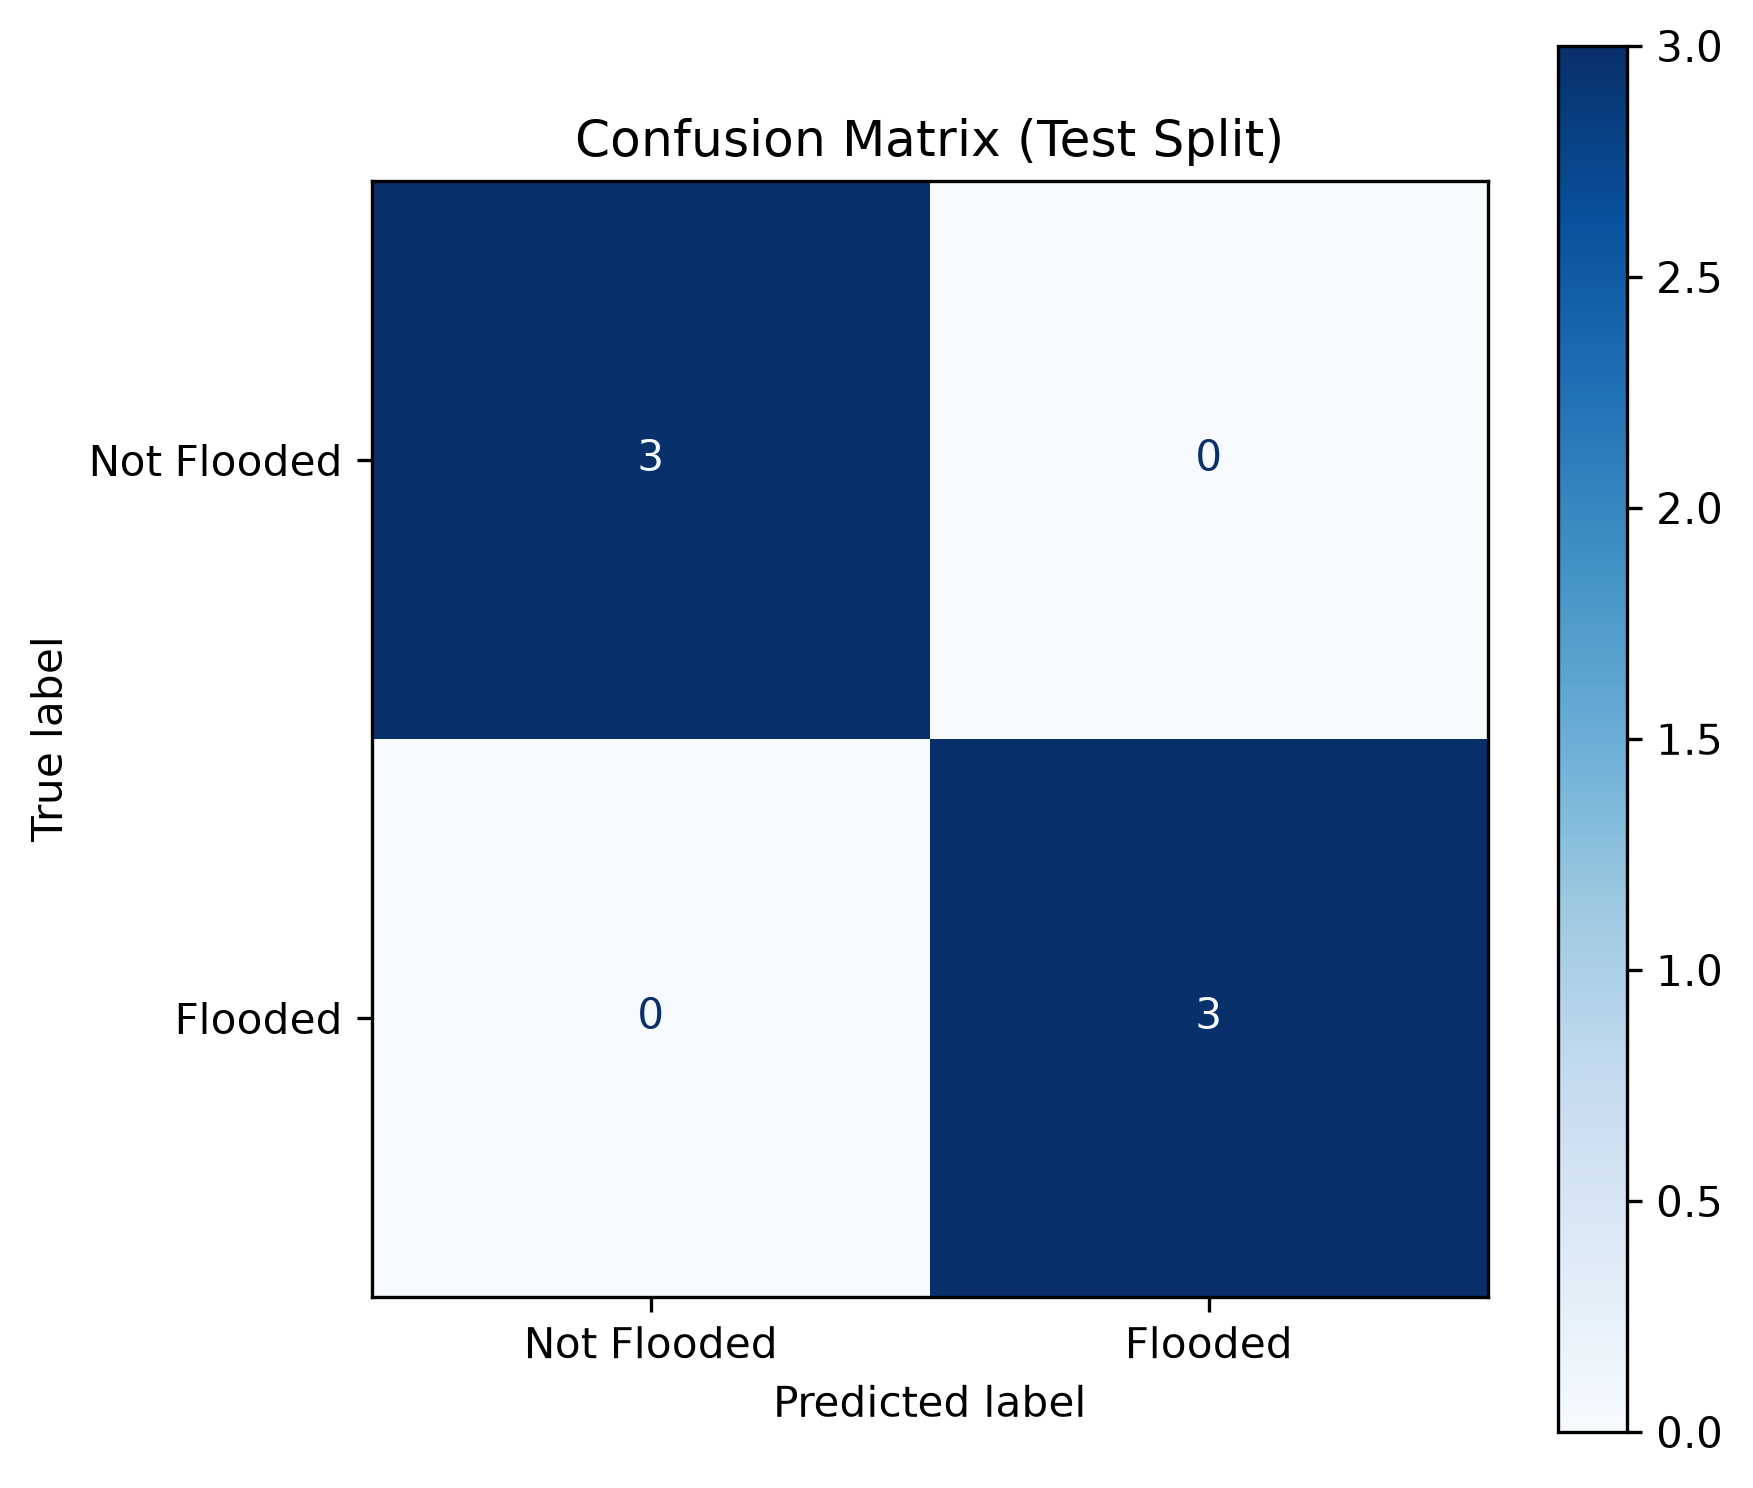
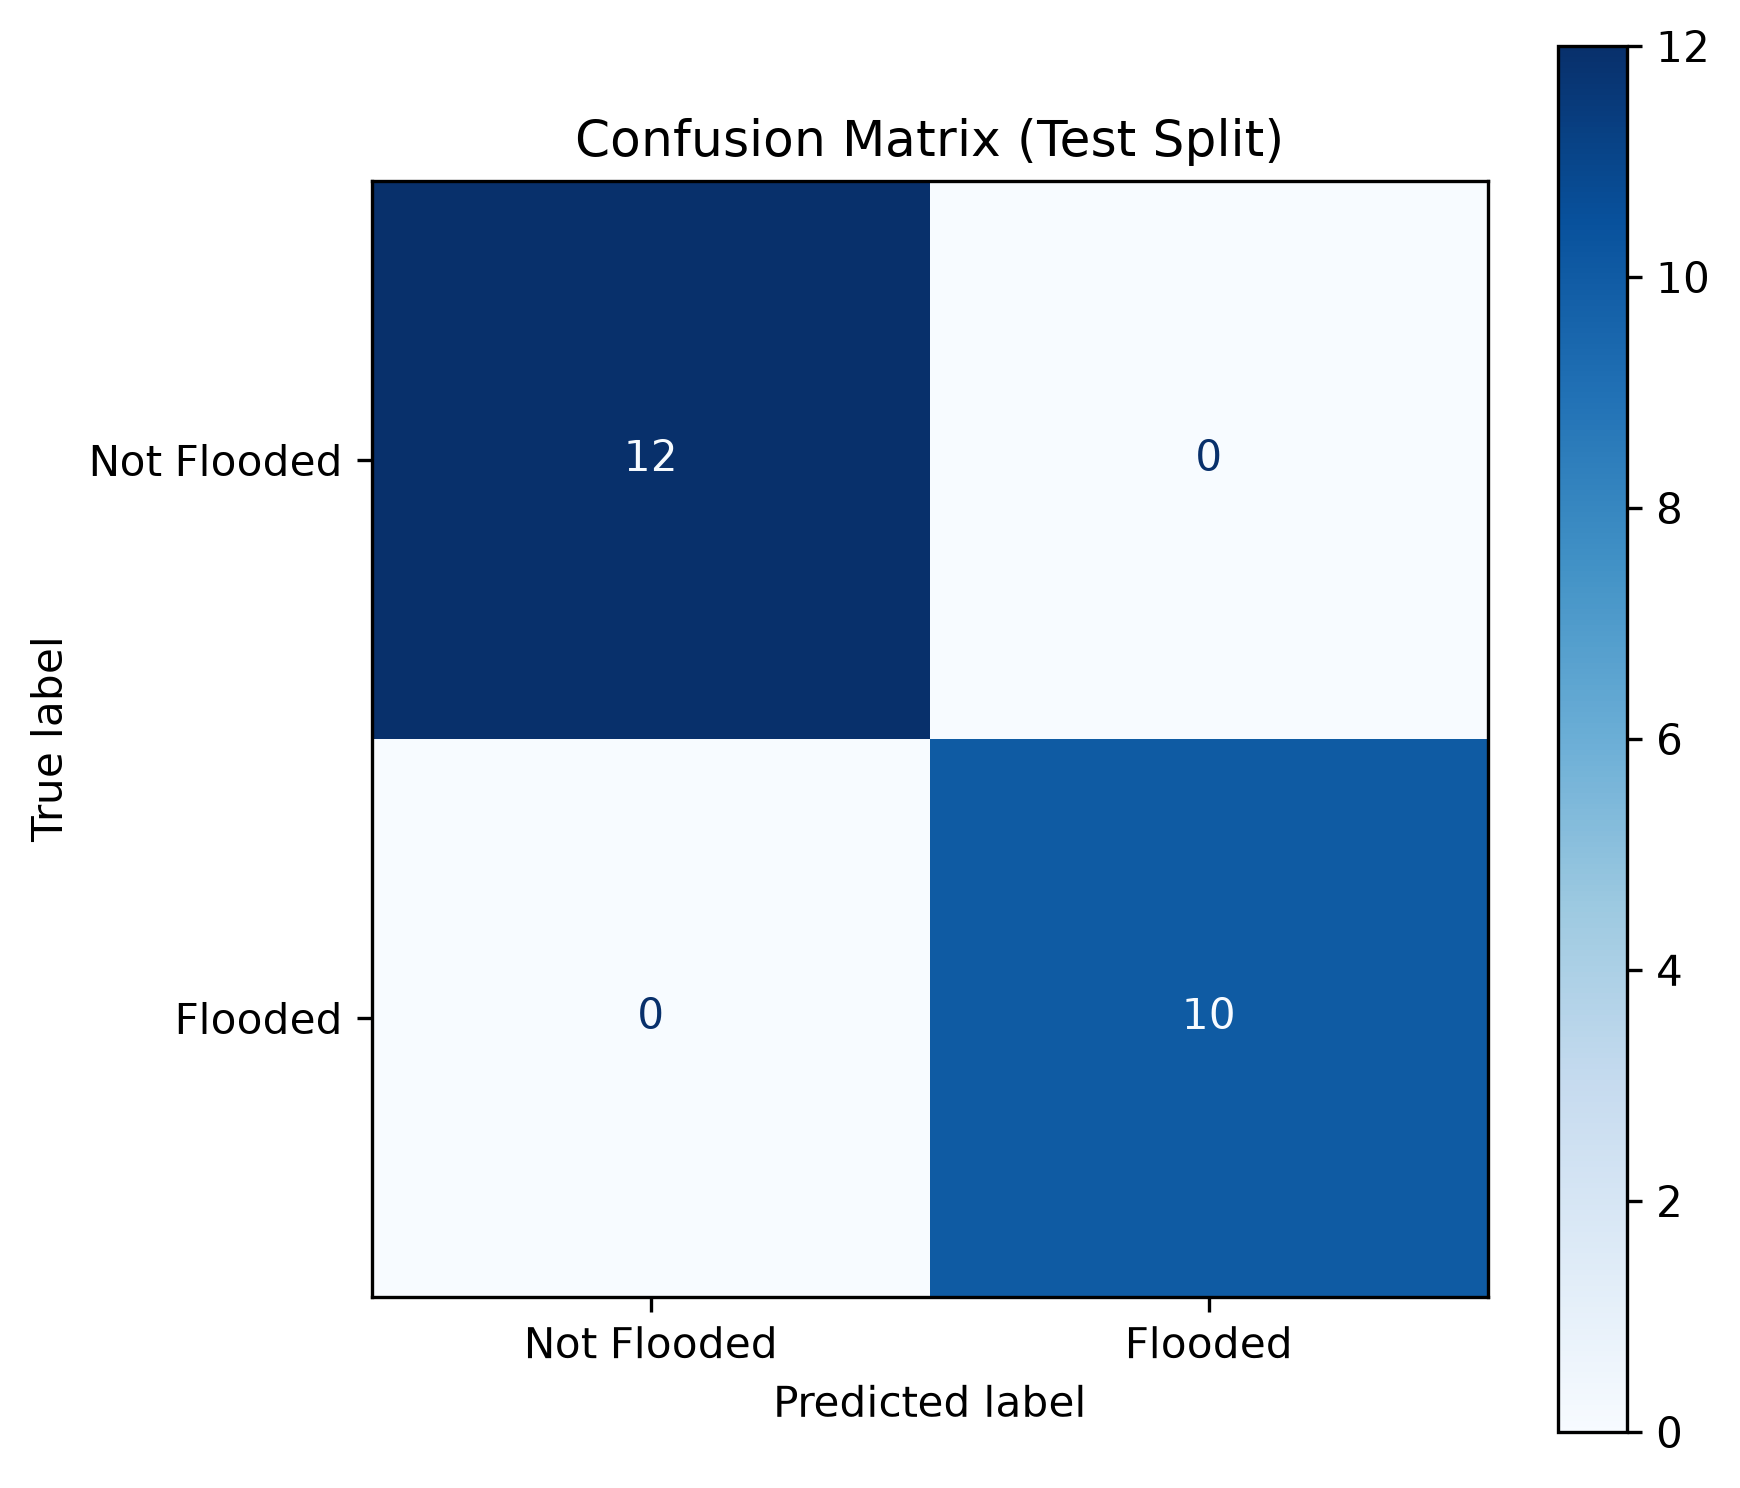
sousee
adding photo into dataset

diff --git a/flood_detection/app.py b/flood_detection/app.py
@@ -15,13 +15,12 @@ METRICS_PATH = "results/metrics.txt"
 
 # 1. Startup Checkpoint Validation
 if not os.path.exists(CHECKPOINT_PATH):
-    st.warning("⚠️ No trained model found. Please run `python train.py` first to train the model and save the checkpoint.")
+    st.warning("No trained model found. Please run `python train.py` first to train the model and save the checkpoint.")
     st.stop()
 
 # Set page layout and aesthetics
 st.set_page_config(
     page_title="Drone Flood Damage Assessment",
-    page_icon="🛸",
     layout="wide"
 )
 
@@ -77,15 +76,15 @@ def log_feedback(filename, predicted_label, confidence, feedback_type):
         writer.writerow([timestamp, filename, predicted_label, f"{confidence:.2f}%", feedback_type])
 
 # Sidebar - System Control Panel
-st.sidebar.title("🛸 System Control Center")
+st.sidebar.title("System Control Center")
 st.sidebar.markdown("---")
-st.sidebar.markdown("### 🎓 Course Details")
+st.sidebar.markdown("### Course Details")
 st.sidebar.info("**Course:** SOF106 Principles of AI\n\n**Project:** Drone Aerial Flood Damage Assessment")
 
 # Display validation metrics if available
 if os.path.exists(METRICS_PATH) or os.path.exists(CONFUSION_MATRIX_PATH):
     st.sidebar.markdown("---")
-    st.sidebar.markdown("### 📊 Model Performance")
+    st.sidebar.markdown("### Model Performance")
     
     if os.path.exists(METRICS_PATH):
         try:
@@ -135,18 +134,18 @@ if uploaded_file is not None:
     col1, col2 = st.columns(2)
     
     with col1:
-        st.markdown("### 📸 Drone View")
+        st.markdown("### Drone View")
         image = Image.open(temp_path)
         st.image(image, use_column_width=True, caption=f"Uploaded File: {img_name}")
         
     with col2:
-        st.markdown("### 🎯 Assessment Results")
+        st.markdown("### Assessment Results")
         
         # Color-coded labels
         if label == "Flooded":
-            st.markdown(f"<div class='flooded-label'>🚨 {label}</div>", unsafe_allow_html=True)
+            st.markdown(f"<div class='flooded-label'> {label}</div>", unsafe_allow_html=True)
         else:
-            st.markdown(f"<div class='not-flooded-label'>✅ {label}</div>", unsafe_allow_html=True)
+            st.markdown(f"<div class='not-flooded-label'> {label}</div>", unsafe_allow_html=True)
             
         # Confidence score visualization
         st.markdown("**Assessment Confidence**")
@@ -155,19 +154,19 @@ if uploaded_file is not None:
         
         # Human feedback logging section
         st.markdown("---")
-        st.markdown("#### 👤 Human-in-the-loop Feedback")
+        st.markdown("#### Human-in-the-loop Feedback")
         st.write("Does this prediction match the visual ground truth?")
         
         if not st.session_state.feedback_submitted:
             btn_col1, btn_col2 = st.columns(2)
             with btn_col1:
-                if st.button("✅ Correct", use_container_width=True):
+                if st.button("Correct", use_container_width=True):
                     log_feedback(img_name, label, confidence, "Correct")
                     st.session_state.feedback_submitted = True
                     st.session_state.logged_feedback_type = "Correct"
                     st.rerun()
             with btn_col2:
-                if st.button("❌ Wrong", use_container_width=True):
+                if st.button("Wrong", use_container_width=True):
                     log_feedback(img_name, label, confidence, "Wrong")
                     st.session_state.feedback_submitted = True
                     st.session_state.logged_feedback_type = "Wrong"
@@ -181,4 +180,4 @@ if uploaded_file is not None:
     except Exception:
         pass
 else:
-    st.info("💡 Please upload an aerial drone image to initiate triage analysis.")
+    st.info("Please upload an aerial drone image to initiate triage analysis.")